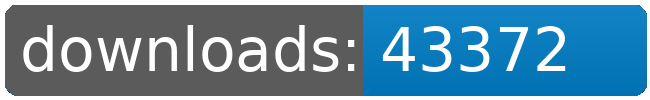
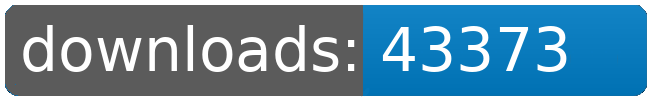
dl log written

Changed region(s): [[0.8308, 0.42, 0.8923, 0.72], [0.8, 0.27, 0.8615, 0.33]]

diff --git a/README.md b/README.md
@@ -21,8 +21,8 @@
 		<td>5369</td>
 		<td>5395</td>
 		<td>5419</td>
-		<td>5439</td>
-		<td>+ 20</td>
+		<td>5440</td>
+		<td>+ 21</td>
 	</tr>
 	<tr>
 		<td>Factory.Outlets</td>
@@ -109,8 +109,8 @@
 		<td></td>
 		<td></td>
 		<td></td>
-		<td>43372</td>
-		<td>123</td>
+		<td>43373</td>
+		<td>124</td>
 	</tr>
 </table>
 </sub></sup>
@@ -157,8 +157,8 @@
 		<td>5369</td>
 		<td>5395</td>
 		<td>5419</td>
-		<td>5439</td>
-		<td>+ 20</td>
+		<td>5440</td>
+		<td>+ 21</td>
 	</tr>
 	<tr>
 		<td>Korunak.Defense.Drones</td>
@@ -223,8 +223,8 @@
 		<td></td>
 		<td></td>
 		<td></td>
-		<td>43372</td>
-		<td>123</td>
+		<td>43373</td>
+		<td>124</td>
 	</tr>
 </table>
 </sub></sup>
